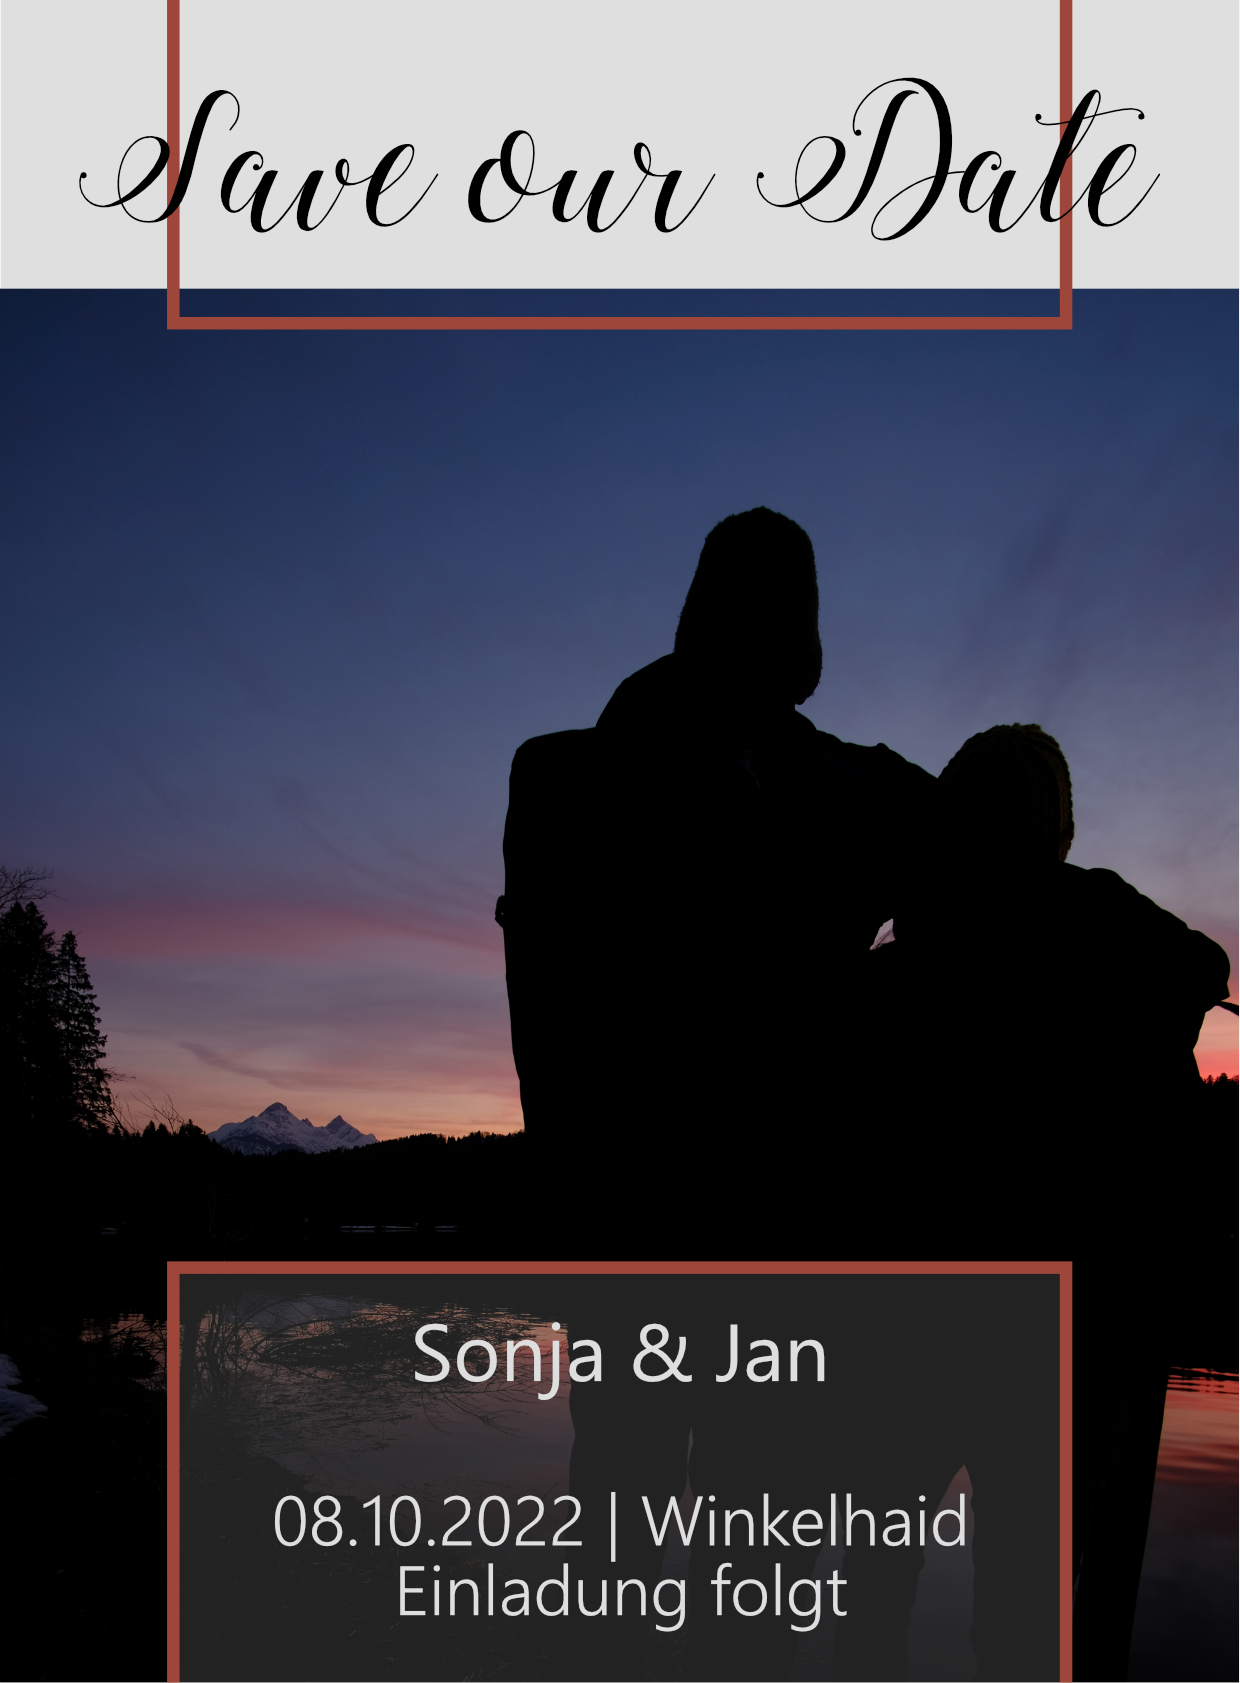
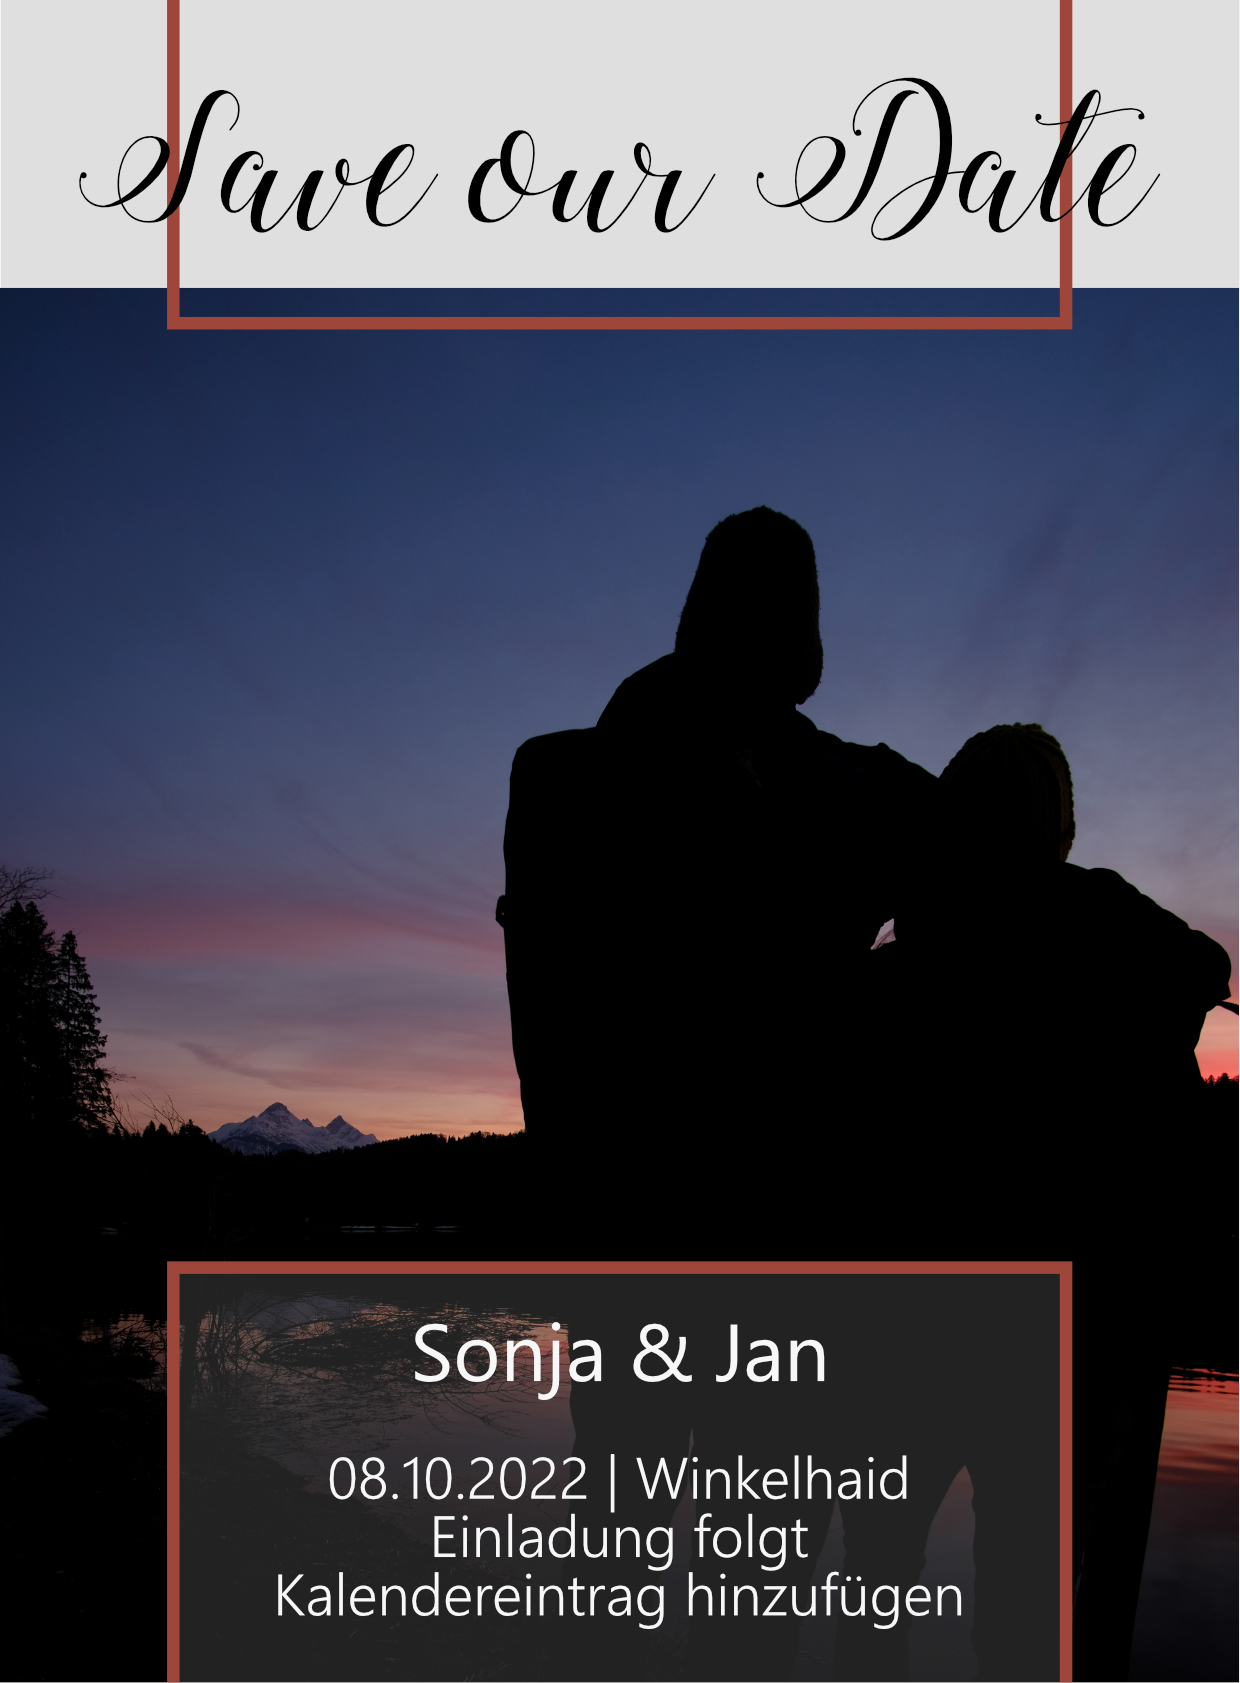
feat: update pic

diff --git a/index.html b/index.html
@@ -25,66 +25,71 @@
     <link href="https://fonts.googleapis.com/css2?family=Licorice&display=swap" rel="stylesheet">
 </head>
 
-<body class="bg-gray-50 ">
-    <div #card class="m-auto bg-gray-50 ">
-        <img src="SaveTheDate-1.png" class="m-auto max-w-full max-h-screen">
+<body class="bg-zinc-900">
+    <div class="flex h-screen">
+        <div #card class="m-auto  ">
+            <img src="SaveTheDate-2.png" class="m-auto max-w-full max-h-screen">
+
+            <a href="http://www.google.com/calendar/event?action=TEMPLATE&dates=20221008T110000Z%2F20221008T220000Z&text=Hochzeit%20Jan%20%26%20Sonja&location=Winkelhaid&details=" style="height: 25vh;" class="absolute bottom-0 left-0 w-screen"></a>
+        </div>
     </div>
 </body>
 
 <style>
-
-* {
-margin: 0;
-padding: 0;
-}
+    * {
+        margin: 0;
+        padding: 0;
+    }
+    
     blockquote,
-dl,
-dd,
-h1,
-h2,
-h3,
-h4,
-h5,
-h6,
-hr,
-figure,
-p,
-pre {
-  margin: 0;
-}
-
-h1,
-h2,
-h3,
-h4,
-h5,
-h6 {
-  font-size: inherit;
-  font-weight: inherit;
-}
-img,
-svg,
-video,
-canvas,
-audio,
-iframe,
-embed,
-object {
-  display: block;
-  vertical-align: middle;
-}
-
-img,
-svg,
-video,
-canvas,
-audio,
-iframe,
-embed,
-object {
-  display: block;
-  vertical-align: middle;
-}
+    dl,
+    dd,
+    h1,
+    h2,
+    h3,
+    h4,
+    h5,
+    h6,
+    hr,
+    figure,
+    p,
+    pre {
+        margin: 0;
+    }
+    
+    h1,
+    h2,
+    h3,
+    h4,
+    h5,
+    h6 {
+        font-size: inherit;
+        font-weight: inherit;
+    }
+    
+    img,
+    svg,
+    video,
+    canvas,
+    audio,
+    iframe,
+    embed,
+    object {
+        display: block;
+        vertical-align: middle;
+    }
+    
+    img,
+    svg,
+    video,
+    canvas,
+    audio,
+    iframe,
+    embed,
+    object {
+        display: block;
+        vertical-align: middle;
+    }
 </style>
 
 </html>
